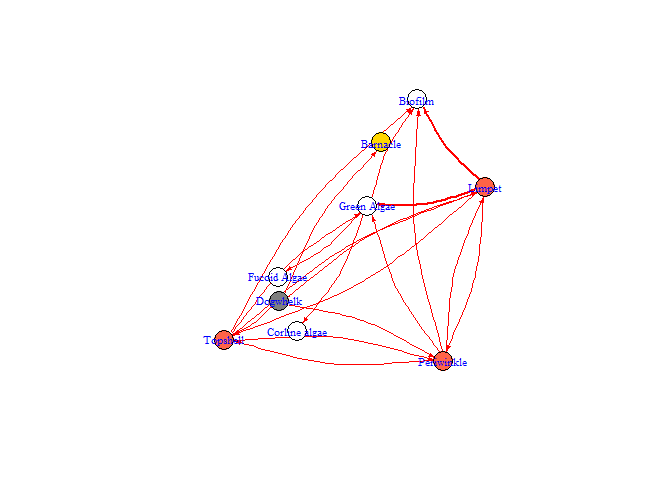
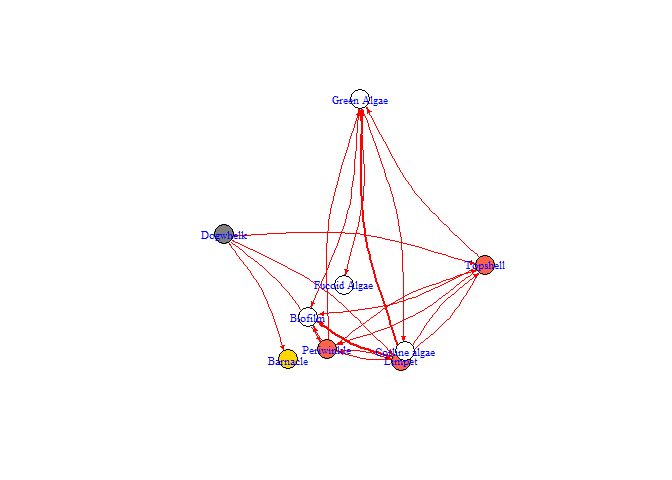
May 2024

diff --git a/README.md b/README.md
@@ -2,7 +2,7 @@ BBNet – a package for creating simple predictive models in ecology,
 conservation and environmental policy based on Bayesian belief networks
 ================
 Rick Stafford & Victoria Dominguez Almela
-13 May, 2024
+14 May, 2024
 
 - [bbnet
   <img src="man/figures/Logo2.png" align="right" height="138" /></a>](#bbnet-)
@@ -53,8 +53,8 @@ You can install the development version of BBNet from
 
 ``` r
 # install.packages("devtools")
-#devtools::install_github("vda1r22/bbnet")
-install.packages("bbnet")
+devtools::install_github("vda1r22/bbnet")
+#install.packages("bbnet")
 ```
 
 # Basic steps to get started
@@ -518,24 +518,24 @@ bbn.sensitivity(bbn.model = my_BBN, boot_max = 100, 'Limpet', 'Green Algae')
 <img src="man/figures/README-unnamed-chunk-8-1.png" width="100%" />
 
     #>                   sens.output Freq
-    #> 1        Green.Algae->Biofilm    1
-    #> 2  Green.Algae->Corline.algae    1
-    #> 3         Limpet->Green.Algae    1
-    #> 4        Periwinkle->Topshell    1
-    #> 5        Dogwhelk->Periwinkle    2
-    #> 6   Green.Algae->Fucoid.Algae    2
-    #> 7          Limpet->Periwinkle    2
-    #> 8            Limpet->Topshell    2
-    #> 9          Dogwhelk->Barnacle    3
-    #> 10        Periwinkle->Biofilm    3
-    #> 11         Periwinkle->Limpet    3
-    #> 12      Topshell->Green.Algae    3
-    #> 13       Topshell->Periwinkle    3
-    #> 14         Dogwhelk->Topshell    4
-    #> 15    Periwinkle->Green.Algae    4
-    #> 16          Topshell->Biofilm    4
-    #> 17           Topshell->Limpet    4
-    #> 18            Limpet->Biofilm    7
+    #> 1          Dogwhelk->Barnacle    1
+    #> 2         Limpet->Green.Algae    1
+    #> 3        Dogwhelk->Periwinkle    2
+    #> 4   Green.Algae->Fucoid.Algae    2
+    #> 5          Limpet->Periwinkle    2
+    #> 6          Periwinkle->Limpet    2
+    #> 7        Periwinkle->Topshell    2
+    #> 8           Topshell->Biofilm    2
+    #> 9        Topshell->Periwinkle    2
+    #> 10           Dogwhelk->Limpet    3
+    #> 11         Dogwhelk->Topshell    3
+    #> 12           Limpet->Topshell    3
+    #> 13    Periwinkle->Green.Algae    3
+    #> 14      Topshell->Green.Algae    3
+    #> 15       Green.Algae->Biofilm    4
+    #> 16 Green.Algae->Corline.algae    4
+    #> 17        Periwinkle->Biofilm    5
+    #> 18            Limpet->Biofilm    6
 
 The function works by bootstrapping with multiple changes to prior
 values and interaction strengths in the network. The frequency shows the
@@ -657,9 +657,8 @@ repository](https://github.com/vda1r22/bbnet/issues).
 # Citation
 
 If you found the package and/or the tutorial useful, please do not
-hesitate to cite the package (in addition to the papers) as an
-acknowledgement for the time spent in writing the package and this
-tutorial. Like all R packages, to know how to cite it, type: Stafford R,
-Dominguez Almela V (2024). BBNet: Create simple predictive models in
-ecology, conservation and environmental policy based on Bayesian belief
-networks\_. R package version 0.1.0, <https://github.com/vda1r22/bbnet>.
+hesitate to cite the package as an acknowledgement for the time spent in
+writing the package and this tutorial. Stafford R, Dominguez Almela V
+(2024). BBNet: Create simple predictive models in ecology, conservation
+and environmental policy based on Bayesian belief networks. R package
+version 0.1.0, <https://github.com/vda1r22/bbnet>.
